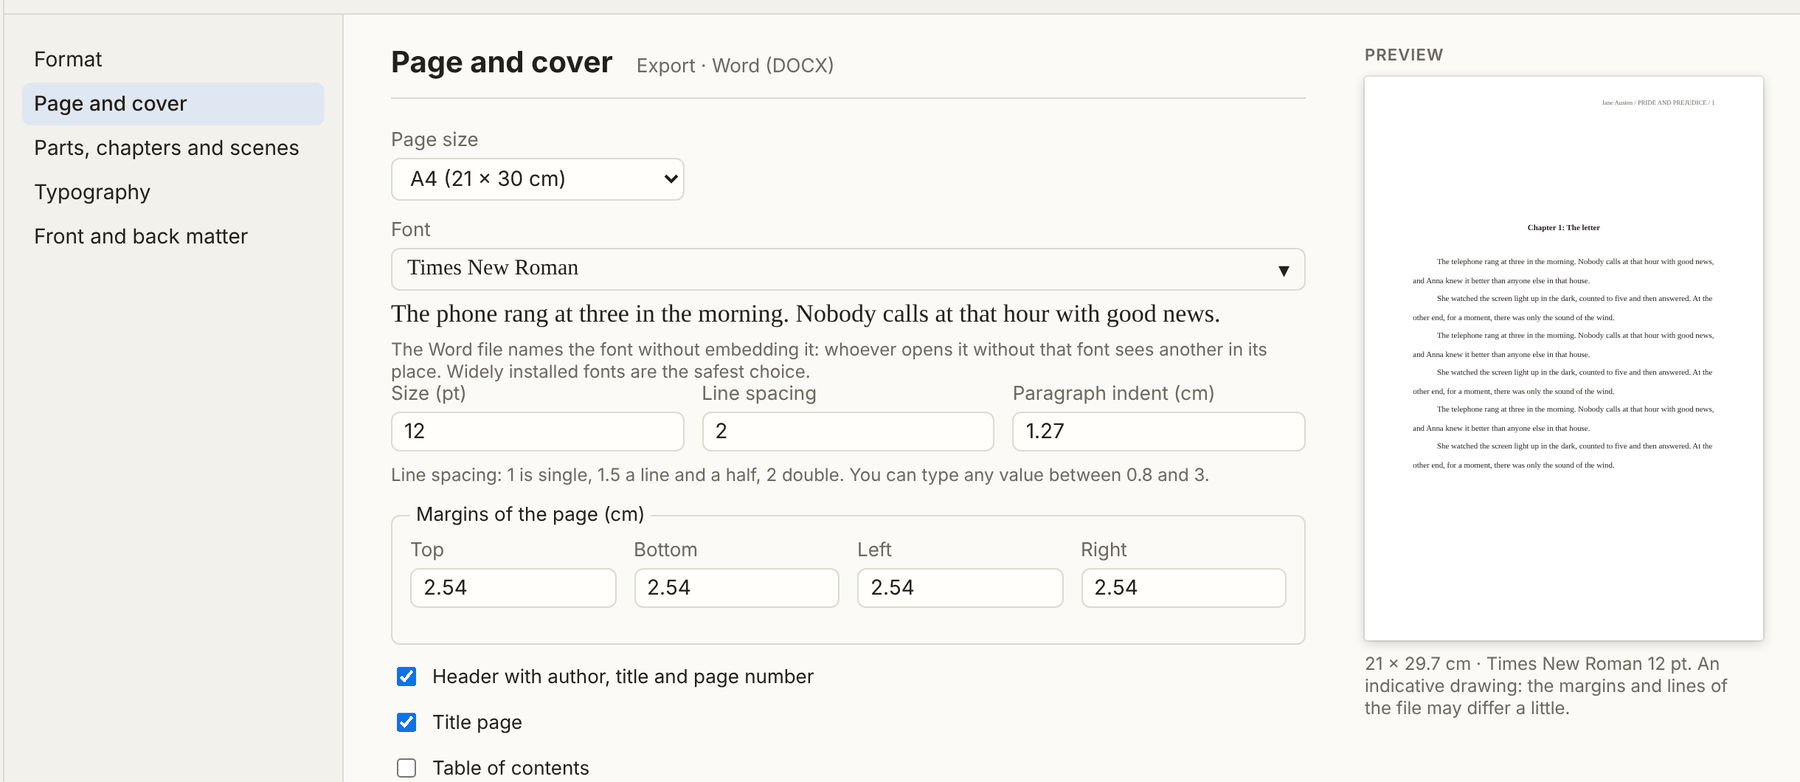
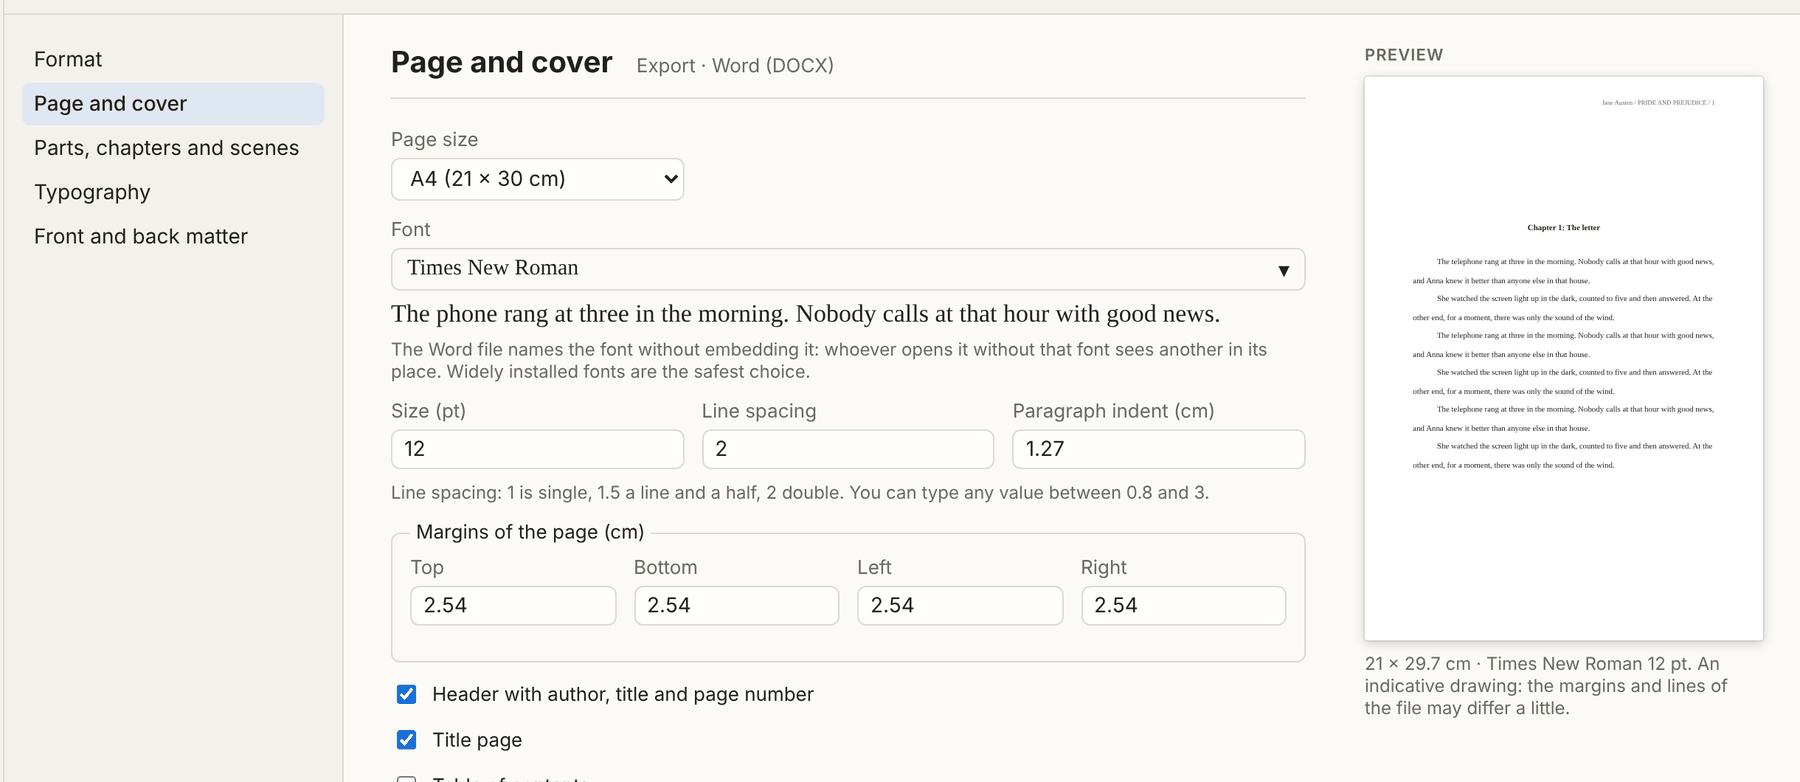
Export: space between the font note and the fields after it
Claude-Session: https://claude.ai/code/session_01QmKvjxz1XSNm2HrzeAMf3a

Changed region(s): [[0.2178, 0.491, 0.7156, 1.0]]

diff --git a/src/lib/ui/ExportView.svelte b/src/lib/ui/ExportView.svelte
@@ -868,6 +868,7 @@
   .field {
     display: grid;
     gap: 4px;
+    margin-bottom: 12px;
   }
   .field .label {
     color: var(--text-muted);

diff --git a/docs/novita.md b/docs/novita.md
@@ -27,6 +27,7 @@ Cosa cambia in ogni versione di Dante, dalla più recente. Le stesse note compai
 
 ### Cambiato
 
+- **Esportazione**: più spazio tra la nota sul font e i campi che la seguono.
 - **Guida in inglese**: le figure della guida in inglese ora mostrano il programma in inglese; quelle della guida in italiano sono aggiornate alla nuova esportazione.
 - **Margini della pagina e titoli senza righe vuote**: in Pagina e copertina si scelgono i quattro margini in centimetri. Nel file Word il titolo di parti e capitoli e le pagine iniziali (frontespizio, dedica, esergo, indice) non sono più preceduti da una riga vuota: per i titoli la distanza dall'alto della pagina è uno spazio del titolo, che puoi regolare o azzerare.
 - **Interlinea libera e aspetto dei titoli nell'esportazione**: l'interlinea è un numero a scelta tra 0,8 e 3; per i titoli di parti, capitoli e scene si scelgono font, corpo, allineamento, grassetto, corsivo, maiuscolo, spazio prima e dopo e interlinea, con l'anteprima a destra. Nel PDF lo spazio intorno ai titoli ora corrisponde a quello del file Word.

diff --git a/docs/whats-new.md b/docs/whats-new.md
@@ -27,6 +27,7 @@ What changes in each version of Dante, newest first. The same notes appear on th
 
 ### Changed
 
+- **Export**: more space between the note on the font and the fields after it.
 - **English guide**: the figures of the English guide now show the program in English; those of the Italian guide are updated to the new export.
 - **Margins of the page and headings without empty lines**: in Page and cover you choose the four margins in centimetres. In the Word file the heading of parts and chapters and the front pages (title page, dedication, epigraph, contents) are no longer preceded by an empty line: for headings the distance from the top of the page is a space of the heading, which you can adjust or set to zero.
 - **Free line spacing and look of the headings in the export**: line spacing is any number between 0.8 and 3; for the headings of parts, chapters and scenes you choose font, size, alignment, bold, italic, capitals, space before and after and line spacing, with the preview on the right. In the PDF the space around headings now matches that of the Word file.
